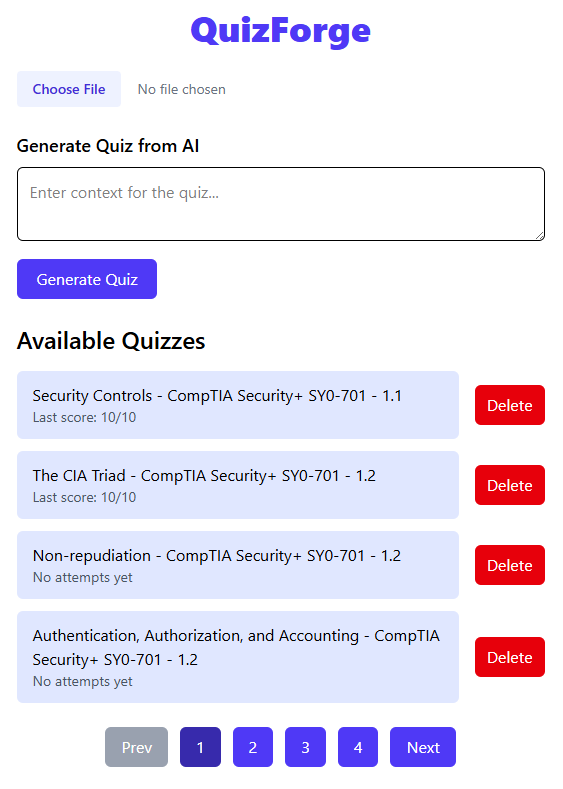
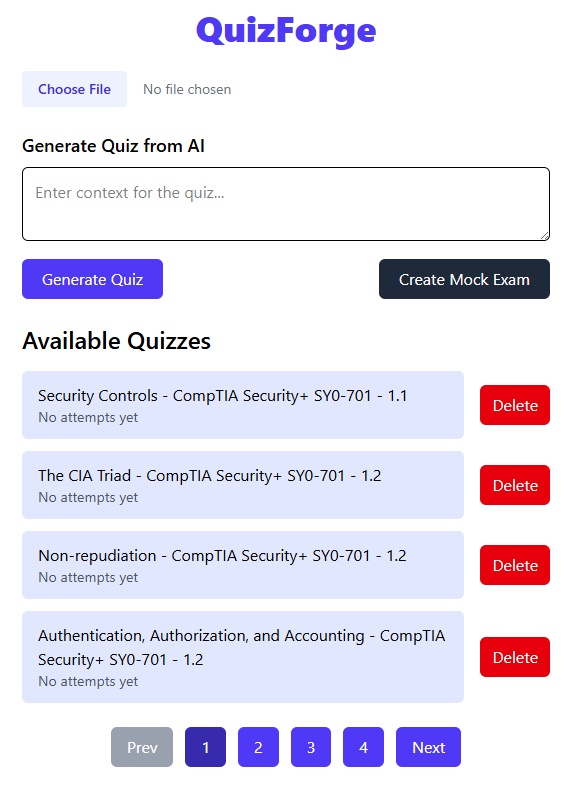
implemented generate mock exam functionality

diff --git a/frontend/src/App.jsx b/frontend/src/App.jsx
@@ -28,6 +28,8 @@ function App() {
   const [numQuestions, setNumQuestions] = useState(10);
   const [loadingAI, setLoadingAI] = useState(false);
   const [loadingQuizzes, setLoadingQuizzes] = useState(false);
+  const [loadingMock, setLoadingMock] = useState(false);
+
 
 
   const generateQuizFromPrompt = async () => {
@@ -71,6 +73,23 @@ function App() {
       setLoadingAI(false);
     }
   };
+
+  const generateMockExam = async () => {
+    try {
+      setLoadingMock(true);
+      const res = await axios.post(`${API_BASE}/mock-exam`);
+      alert("Mock exam created!");
+      fetchQuizzes(); // Refresh list
+    } catch (err) {
+      alert("Failed to create mock exam");
+      console.error(err);
+    } finally {
+      setLoadingMock(false);
+    }
+  };
+
+
+
 
 
 
@@ -228,7 +247,7 @@ function App() {
             placeholder="Enter context for the quiz..."
             className="w-full p-3 border rounded-md mb-3"
           />
-          <div className="flex items-center mb-3 space-x-3">
+          <div className="flex justify-between items-center mb-3 space-x-3">
             {/* <input
               type="number"
               min={1}
@@ -266,6 +285,38 @@ function App() {
               )}
               <span>{loadingAI ? "Generating..." : "Generate Quiz"}</span>
             </button>
+
+            <button
+              onClick={generateMockExam}
+              disabled={loadingMock}
+              className={`px-5 py-2 rounded-md flex items-center justify-center space-x-2 text-white ${loadingMock ? "bg-gray-400" : "bg-gray-800 hover:bg-gray-900"
+                }`}
+            >
+              {loadingMock && (
+                <svg
+                  className="w-5 h-5 animate-spin text-white"
+                  xmlns="http://www.w3.org/2000/svg"
+                  fill="none"
+                  viewBox="0 0 24 24"
+                >
+                  <circle
+                    className="opacity-25"
+                    cx="12"
+                    cy="12"
+                    r="10"
+                    stroke="currentColor"
+                    strokeWidth="4"
+                  />
+                  <path
+                    className="opacity-75"
+                    fill="currentColor"
+                    d="M4 12a8 8 0 018-8v4a4 4 0 00-4 4H4z"
+                  />
+                </svg>
+              )}
+              <span>{loadingMock ? "Generating..." : "Create Mock Exam"}</span>
+            </button>
+
 
           </div>
         </div>

diff --git a/backend/main.py b/backend/main.py
@@ -4,6 +4,9 @@ from dotenv import load_dotenv
 import json
 import httpx
 import os
+from fastapi import Request
+from models import supabase  
+
 
 load_dotenv()
 
@@ -125,6 +128,84 @@ def record_attempt(quiz_id: int, data: dict):
 def fetch_attempts():
     return get_latest_attempts()
 
+@app.post("/mock-exam")
+async def create_mock_exam(request: Request):
+    data = await request.json() if await request.body() else {}
+    num_questions = data.get("numQuestions", 30)  # default 30 if not provided
+
+    # Fetch all questions
+    question_res = supabase.table("questions").select("id").execute()
+    all_ids = [q["id"] for q in question_res.data]
+
+    import random
+    selected_ids = random.sample(all_ids, min(num_questions, len(all_ids)))
+
+    # Create a new quiz
+    new_quiz_res = supabase.table("quizzes").insert({
+        "name": "Mock Exam",
+        "description": "Randomized mock exam from all topics"
+    }).execute()
+    quiz_id = new_quiz_res.data[0]["id"]
+
+    # Link selected questions to the new quiz
+    for qid in selected_ids:
+        supabase.table("quiz_questions").insert({
+            "quiz_id": quiz_id,
+            "question_id": qid
+        }).execute()
+
+    return {"message": "Mock exam created", "quiz_id": quiz_id}
+
+
+
+# @app.post("/mock-exam")
+# async def create_mock_exam(request: Request):
+#     data = await request.json() if await request.body() else {}
+#     num_questions = data.get("numQuestions", 30)
+#     min_per_quiz = 3
+
+#     # Fetch all quizzes
+#     quizzes_res = supabase.table("quizzes").select("id").execute()
+#     quiz_ids = [q["id"] for q in quizzes_res.data]
+
+#     selected_ids = []
+
+#     # For each quiz, get at least min_per_quiz questions
+#     for quiz_id in quiz_ids:
+#         q_res = supabase.table("quiz_questions").select("question_id").eq("quiz_id", quiz_id).execute()
+#         question_ids = [q["question_id"] for q in q_res.data]
+
+#         # If quiz has fewer than min_per_quiz questions, take all
+#         count_to_take = min(min_per_quiz, len(question_ids))
+
+#         selected_ids.extend(random.sample(question_ids, count_to_take))
+
+#     # If total selected < num_questions, fill the rest randomly from all questions excluding already selected
+#     if len(selected_ids) < num_questions:
+#         all_q_res = supabase.table("questions").select("id").execute()
+#         all_question_ids = [q["id"] for q in all_q_res.data]
+#         remaining_pool = list(set(all_question_ids) - set(selected_ids))
+#         remaining_needed = num_questions - len(selected_ids)
+#         if remaining_needed > 0 and len(remaining_pool) > 0:
+#             selected_ids.extend(random.sample(remaining_pool, min(remaining_needed, len(remaining_pool))))
+
+#     # Create new quiz
+#     new_quiz_res = supabase.table("quizzes").insert({
+#         "name": "Mock Exam",
+#         "description": "Randomized mock exam from all topics with minimum questions per quiz"
+#     }).execute()
+#     quiz_id = new_quiz_res.data[0]["id"]
+
+#     # Link questions to the new quiz
+#     for qid in selected_ids:
+#         supabase.table("quiz_questions").insert({
+#             "quiz_id": quiz_id,
+#             "question_id": qid
+#         }).execute()
+
+#     return {"message": "Mock exam created", "quiz_id": quiz_id}
+
+
 # @app.delete("/quiz/{quiz_id}", status_code=status.HTTP_204_NO_CONTENT)
 # def delete_quiz(quiz_id: int):
 #     conn = get_db()
@@ -137,8 +218,8 @@ def fetch_attempts():
 
 @app.delete("/quiz/{quiz_id}", status_code=status.HTTP_204_NO_CONTENT)
 def delete_quiz(quiz_id: int):
-    from models import supabase
-    supabase.table("questions").delete().eq("quiz_id", quiz_id).execute()
+    supabase.table("quiz_questions").delete().eq("quiz_id", quiz_id).execute()
     supabase.table("quizzes").delete().eq("id", quiz_id).execute()
     return
+
 

diff --git a/backend/models.py b/backend/models.py
@@ -2,6 +2,8 @@ import os
 import json
 from typing import Dict, Any
 from supabase import create_client, Client
+from dotenv import load_dotenv
+load_dotenv()
 
 SUPABASE_URL = os.getenv("SUPABASE_URL")
 SUPABASE_KEY = os.getenv("SUPABASE_SERVICE_ROLE_KEY")
@@ -22,14 +24,20 @@ def save_quiz(quiz: Dict[str, Any]):
     for q in quiz["questions"]:
         if q["type"] != "MultipleChoice":
             continue
-        supabase.table("questions").insert({
-            "quiz_id": quiz_id,
+        q_res = supabase.table("questions").insert({
             "question": q["question"],
             "correct_answer": q["correctAnswer"],
             "options": json.dumps(q["multiChoiceOptions"])
         }).execute()
+        question_id = q_res.data[0]["id"]
+
+        supabase.table("quiz_questions").insert({
+            "quiz_id": quiz_id,
+            "question_id": question_id
+        }).execute()
 
     return quiz_id
+
 
 def get_all_quizzes():
     res = supabase.table("quizzes").select("id, name, description").execute()
@@ -40,8 +48,22 @@ def get_quiz_by_id(quiz_id: int):
     if not quiz_res.data:
         return None
 
-    questions_res = supabase.table("questions").select("question, correct_answer, options").eq("quiz_id", quiz_id).execute()
-    
+    # Get question IDs from quiz_questions
+    mapping_res = supabase.table("quiz_questions").select("question_id").eq("quiz_id", quiz_id).execute()
+    question_ids = [row["question_id"] for row in mapping_res.data]
+
+    if not question_ids:
+        return {
+            "id": quiz_id,
+            "name": quiz_res.data["name"],
+            "description": quiz_res.data["description"],
+            "questions": []
+        }
+
+    questions_res = supabase.table("questions") \
+        .select("id, question, correct_answer, options") \
+        .in_("id", question_ids).execute()
+
     return {
         "id": quiz_id,
         "name": quiz_res.data["name"],
@@ -56,6 +78,7 @@ def get_quiz_by_id(quiz_id: int):
             for q in questions_res.data
         ]
     }
+
 
 def save_quiz_attempt(quiz_id: int, score: int, total_questions: int):
     supabase.table("attempts").insert({
